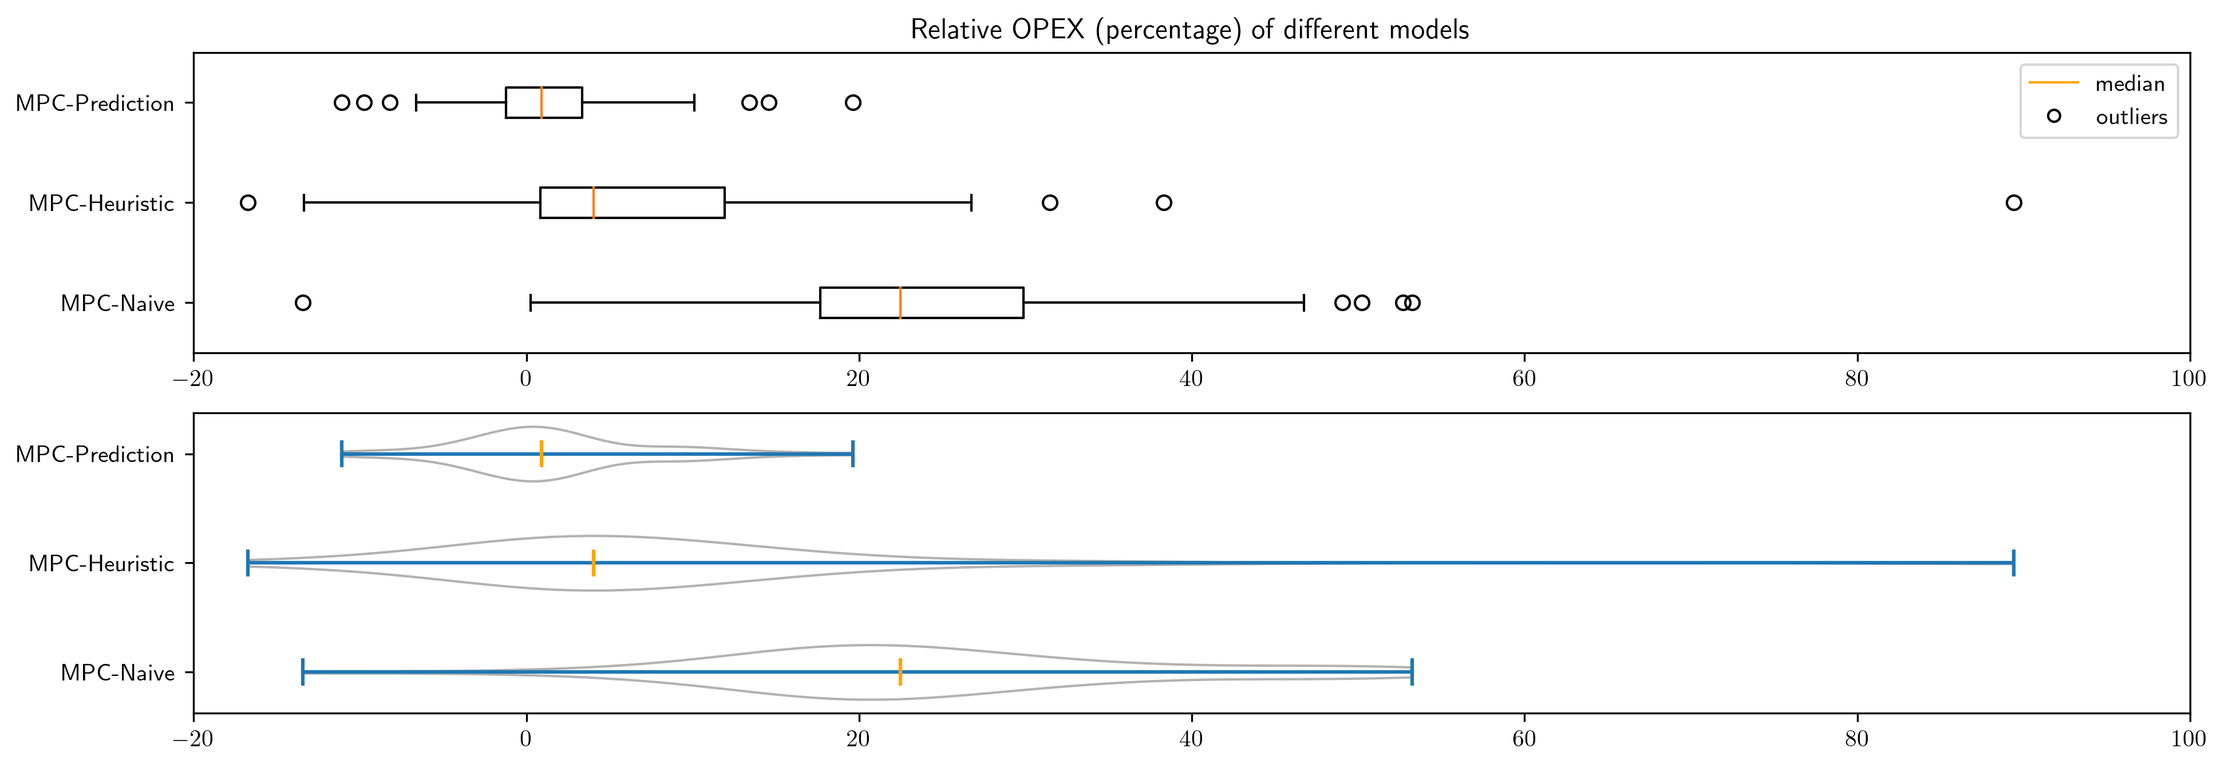
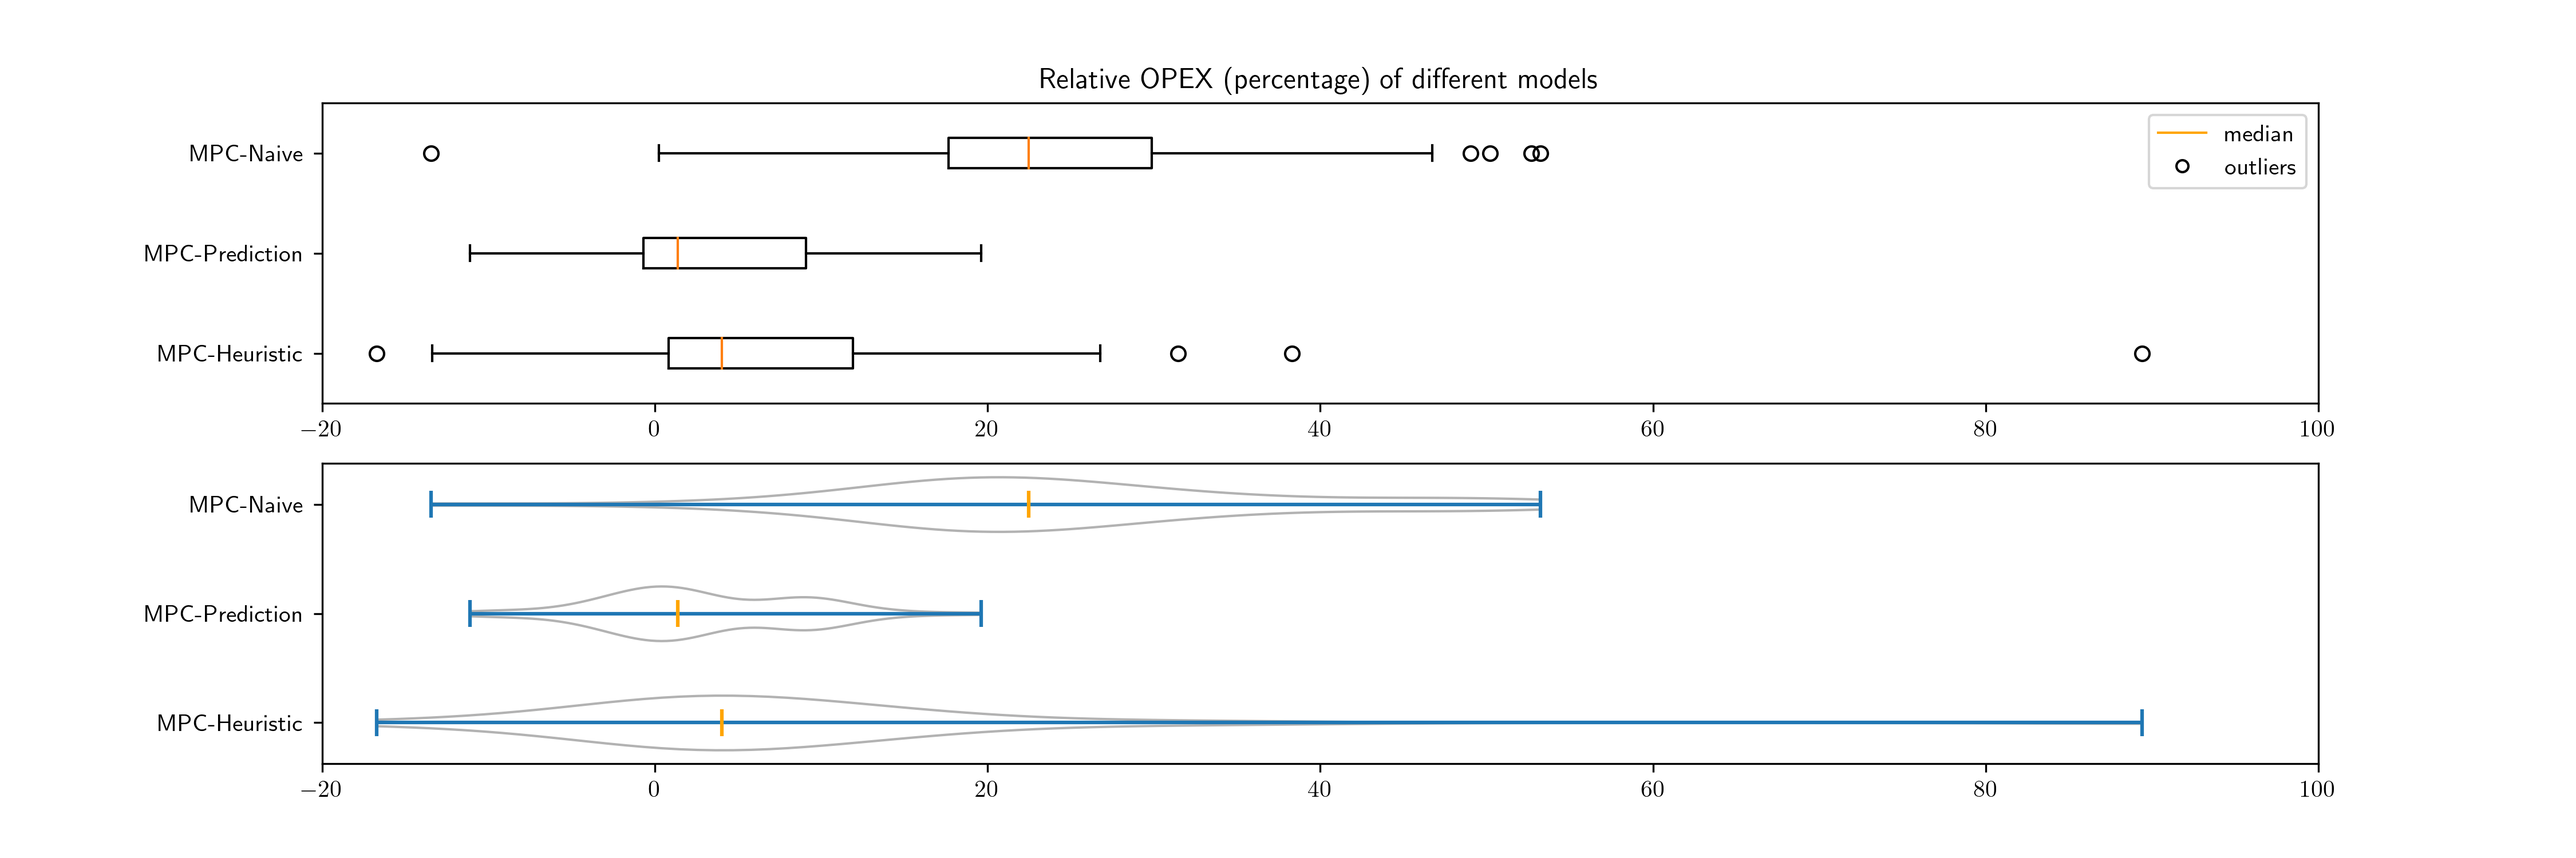
push plots

diff --git a/figures/visualization/script/XGBoost_helper.py b/figures/visualization/script/XGBoost_helper.py
@@ -690,7 +690,9 @@ class Simple_forecast():
         if indexes_pred.min()-timedelta(days=max(days_list)) < self.pred_ref.index.min():
             print("Alert: insufficient data in ref_duration")
             
+        print("# calculate historical average of all index in prediction duartion")
         for i in indexes_pred:
+            #print(i)
             # calculate historical average of all index in prediction duartion   
             history=[]
             for k in days_list:
@@ -712,7 +714,7 @@ class Simple_forecast():
             idx_end=i+timedelta(minutes=15*K)
             meta=self.pred_ref[idx_start:idx_end]
             future=meta['RealPower'].values.tolist()
-            #
+
             # print(future)
 
             data_n.at[i,'future_real']=future
@@ -728,8 +730,10 @@ class Simple_forecast():
         print(data_n.info())
         data_n=data_n.set_index('DateTime')
         
+        print("# calculate pred for each step")
         for i in indexes_pred:
             
+            print(i)
             last=self.pred_ref.at[i,'RealPower']
             
             idx_start=i+timedelta(minutes=15)
@@ -739,7 +743,6 @@ class Simple_forecast():
             assert len(historical_ave)==K
             pred=[]
             for k in range(K):
-                #print(type(k))
                 pred.append(last*last_weights[k]+historical_ave[k]*(1-last_weights[k]))
             
             data_n.at[i,'RealPower_pred']=pred
@@ -790,6 +793,7 @@ class Simple_forecast():
             for i in indexes_pred:
                 data_n.loc[i,'MAPE_'+str(k)]=\
                     mean_absolute_percentage_error(data_n.at[i,'RealPower_pred'][:k],data_n.loc[i,'future_real'][:k])
+            print(k," done")
                 
         self.pred=data_n.copy()
         return data_n
@@ -833,10 +837,9 @@ class Prediction_evaluation():
             simple['DateTime']=pd.to_datetime(simple['DateTime'])
             print("Notification: data type of simple predeiction:")
             print(simple['Pred_Simple'].dtype)
-            xgb=pd.read_csv(xgb_path).rename(columns={'RealPower_pred':'Pred_XGB'})
+            xgb=pd.read_csv(xgb_path).rename(columns={'RealPower':'Pred_XGB'})
             xgb['DateTime']=pd.to_datetime(xgb['DateTime'])
-            #print("Notification: data type of XGB predeiction:")
-            #print(simple['Pred_XGB'].dtype)
+
         except:
             print('Fail to load prediction data, check whether the csv file contains columns:"RealPower_pred" ')
             
@@ -844,16 +847,10 @@ class Prediction_evaluation():
         # we need to recover it here
         xgb['Pred_XGB']=xgb['Pred_XGB']*self.scale_coef
         df=pd.merge(simple,xgb,on='DateTime',how='left')
-        #df=df.T.drop_duplicates().T
-        #df.index.name='index'
-        #df=df.drop(columns=['DateTime'])
-        #df.index.name='DateTime'
-        print(df.info())
 
-        #df=df.rename(columns={'RealPower_x':'RealPower'})
-        #df=df.drop(columns={"RealPower_y"})
-        #df.index = pd.to_datetime(df['DateTime'])
+        print(df.info())
         return df
+    
     
     def metrics_all(self):
         
@@ -867,14 +864,9 @@ class Prediction_evaluation():
         # to calculate the average of all values in the columns of Simple metrics
         simple=dict()
         for i in self.simple_metrics:
-            #print(i)
-            #print(type(i))
-            #print(type(df[str(i)]))
-            #print(df[str(i)])
-            #print(type(df[str(i)].mean()))
             a=df[str(i)].mean()
             simple[str(i)]=a
-        #print(df.head(-10))
+
         df['MSE_XGB']=df[['RealPower','Pred_XGB']].apply(lambda x: np.power(x['RealPower']-x['Pred_XGB'],2)\
             if x['RealPower']!=None and x['Pred_XGB']!= None else None,axis=1)
         

diff --git a/figures/visualization/script/plot_helper.py b/figures/visualization/script/plot_helper.py
@@ -5,6 +5,7 @@ from matplotlib import rc
 import matplotlib as mpl
 import pandas as pd
 import sys
+from matplotlib.lines import Line2D
 
 '''
 src_path = sys.path[0].replace("figures\visualization\script", "src")
@@ -324,7 +325,7 @@ def plot_dc_line_group(df,plot_key_list_x,plot_key_list_y,x_key,suptitle,base_si
     plt.show()
 
 def plot_box(df,relative,limit,figsize,key,save_fn,fontsize):
-
+    
     labels=df['label'].unique()
     to_delete=np.array(['MPC-GT','MSC-GT'],dtype=object)
     labels_set=set(labels)
@@ -335,19 +336,33 @@ def plot_box(df,relative,limit,figsize,key,save_fn,fontsize):
         key="relative_"+key
 
     boxes=[]
-    fig,ax=plt.subplots(figsize=figsize)
+    fig,axs=plt.subplots(nrows=2,ncols=1,figsize=figsize)
     for i in labels:
-    
         boxes.append(df[df.label==i][key])
-    
-    #box_1, box_2, box_3, box_4 = data['收入_Jay'], data['收入_JJ'], data['收入_Jolin'], data['收入_Hannah']
-    
-    #plt.figure(figsize=figsize)#设置画布的尺寸
-    plt.title('Examples of boxplot',fontsize=fontsize)#标题，并设定字号大小
+
+    legend_elements = [Line2D([0], [0], color='orange', lw=1, label='median'),
+                       Line2D([], [], color='black', marker='o', linestyle='None',
+                          markersize=5, markerfacecolor='w',label='outliers')
+                   ]    
    
-    #vert=False:水平箱线图；showmeans=True：显示均值
-    ax.boxplot(boxes, labels = labels, vert=False,showmeans=True )
-    ax.set_xlim(limit)
+
+    axs[0].boxplot(boxes, labels = labels, vert=False,showmeans=False,
+               meanline=True)
+    axs[0].set_xlim(limit)
+    axs[0].set_title("Relative OPEX (percentage) of different models")
+    axs[0].legend(handles=legend_elements, loc='upper right')
+    
+    vp=axs[1].violinplot(boxes, vert=False,showmeans=False,
+                      showmedians=True)
+    vp['cmedians'].set_color('orange')
+
+    for pc in vp['bodies']:
+        pc.set_color("w")
+        pc.set_edgecolor('black')
+    axs[1].set_yticks([y + 1 for y in range(len(boxes))],
+                  labels=labels)
+    axs[1].set_xlim(limit)
+
     if save_fn is not None:
         plt.savefig(save_fn)
     plt.show()
